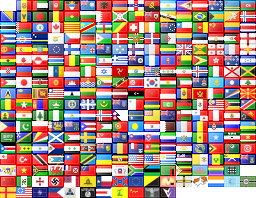
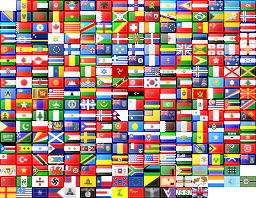
Added some flags - SG and MWV

Changed region(s): [[0.6875, 0.9394, 0.8125, 1.0]]

diff --git a/static/flags/flags.css b/static/flags/flags.css
@@ -286,6 +286,9 @@
 .flag.flag-hez {background-position: -112px -187px}
 .flag.flag-wat {background-position: -128px -187px}
 .flag.flag-hof {background-position: -144px -187px}
+.flag.flag-vri {background-position: -160px -187px}
+.flag.flag-syg {background-position: -176px -187px}
+.flag.flag-mwv {background-position: -192px -187px}
 
 
 

diff --git a/inc/config.php b/inc/config.php
@@ -1870,7 +1870,9 @@ $config['nicenotice_reasons'][] = "We care, and we hope you feel better soon. We
 		283 	=>	'Hezbollah',
 		284 	=>	'Waifu Thief',
 		285 	=>	'Heil Hoofler',
-		286 	=>	'Vril Society'
+		286 	=>	'Vril Society',
+		287 	=>	'Syria General',
+		288 	=>	'Meme War Veteran'
 	);
 	/* Administration */
 	// View the report queue
